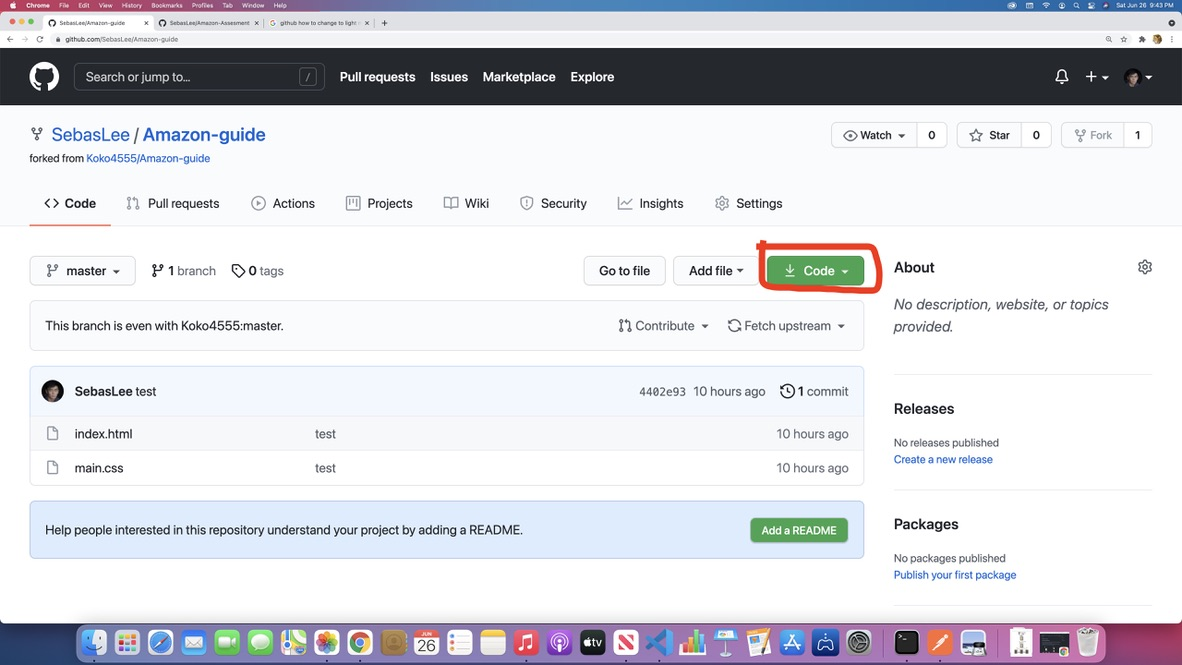
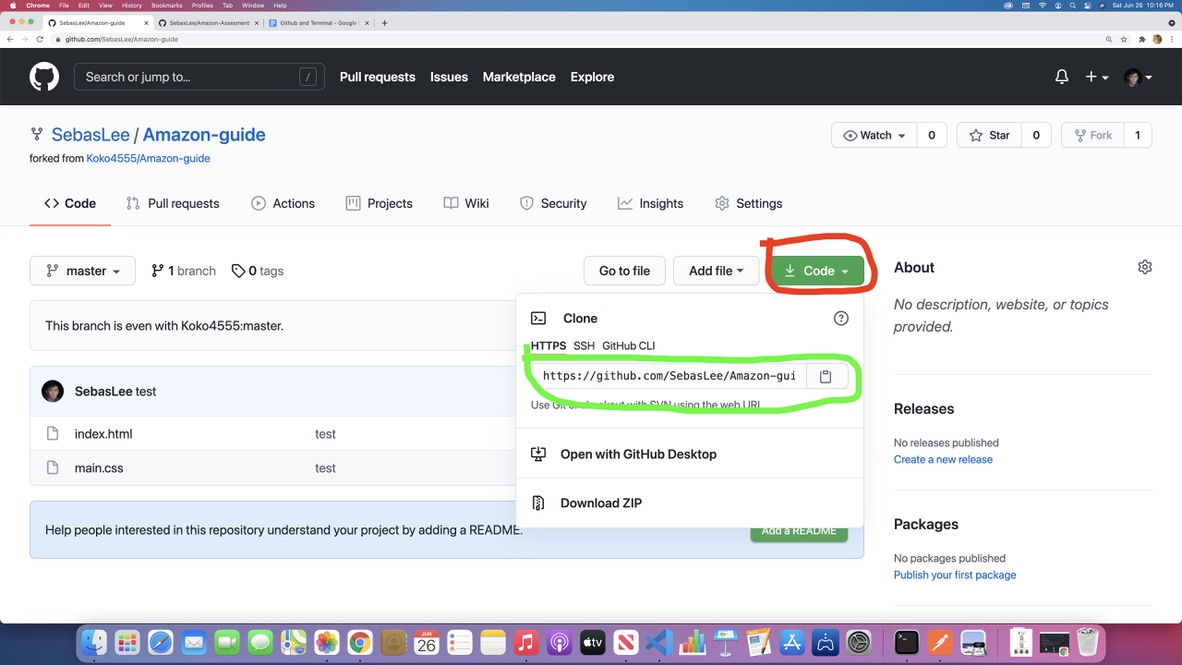
edits

diff --git a/README.md b/README.md
@@ -4,7 +4,7 @@
 
 Github is a code-hosting platform that can track and save code in real time. It connects to a user's code editor and allows open-source access to that user's repository (the space where code is stored). In other words, Github allows for collaboration between different users on the same projects. 
 
-One popular method Github users use to collaborate on repositories is called **Forking**. Forking is when users take a copy of a repositry and clone it into their local computers to make edits. This method is in contrast to direct **Cloning**, which forgoes forking and only clones down the original repository.
+One popular method Github users use to collaborate on repositories is called **Forking**. Forking is when users take a copy of a repository into their accounts and clone it into their local computers to make edits. This method is in contrast to direct **Cloning**, which forgoes forking and only clones down the original repository.
 <br></br>
 <p float="left">
     <img src="./images/Git-Clone.jpeg" height="400" />
@@ -26,7 +26,9 @@ To fork a repository, first locate a repository to work on through public access
 <img src="./images/1st.jpeg"/>
 <br></br>
 
-This will create the copied repository can be edited. To gain access to the code, click on the green **Code** button in approximately the upper-center-right of the page, indicated by the circle. 
+This will create the copied repository that can be edited. The top left corner of the page will now indicate the repository is under the user's account. To gain access to the code, click on the green **Code** button in approximately the upper-center-right of the page, indicated by the red circle. 
 <br></br>
 <img src="./images/2nd.jpeg" />
 <br></br>
+
+A pop-up will appear with options and a HTTPS link indicated by the green circle. Copy the link as it will be pasted in the terminal.
